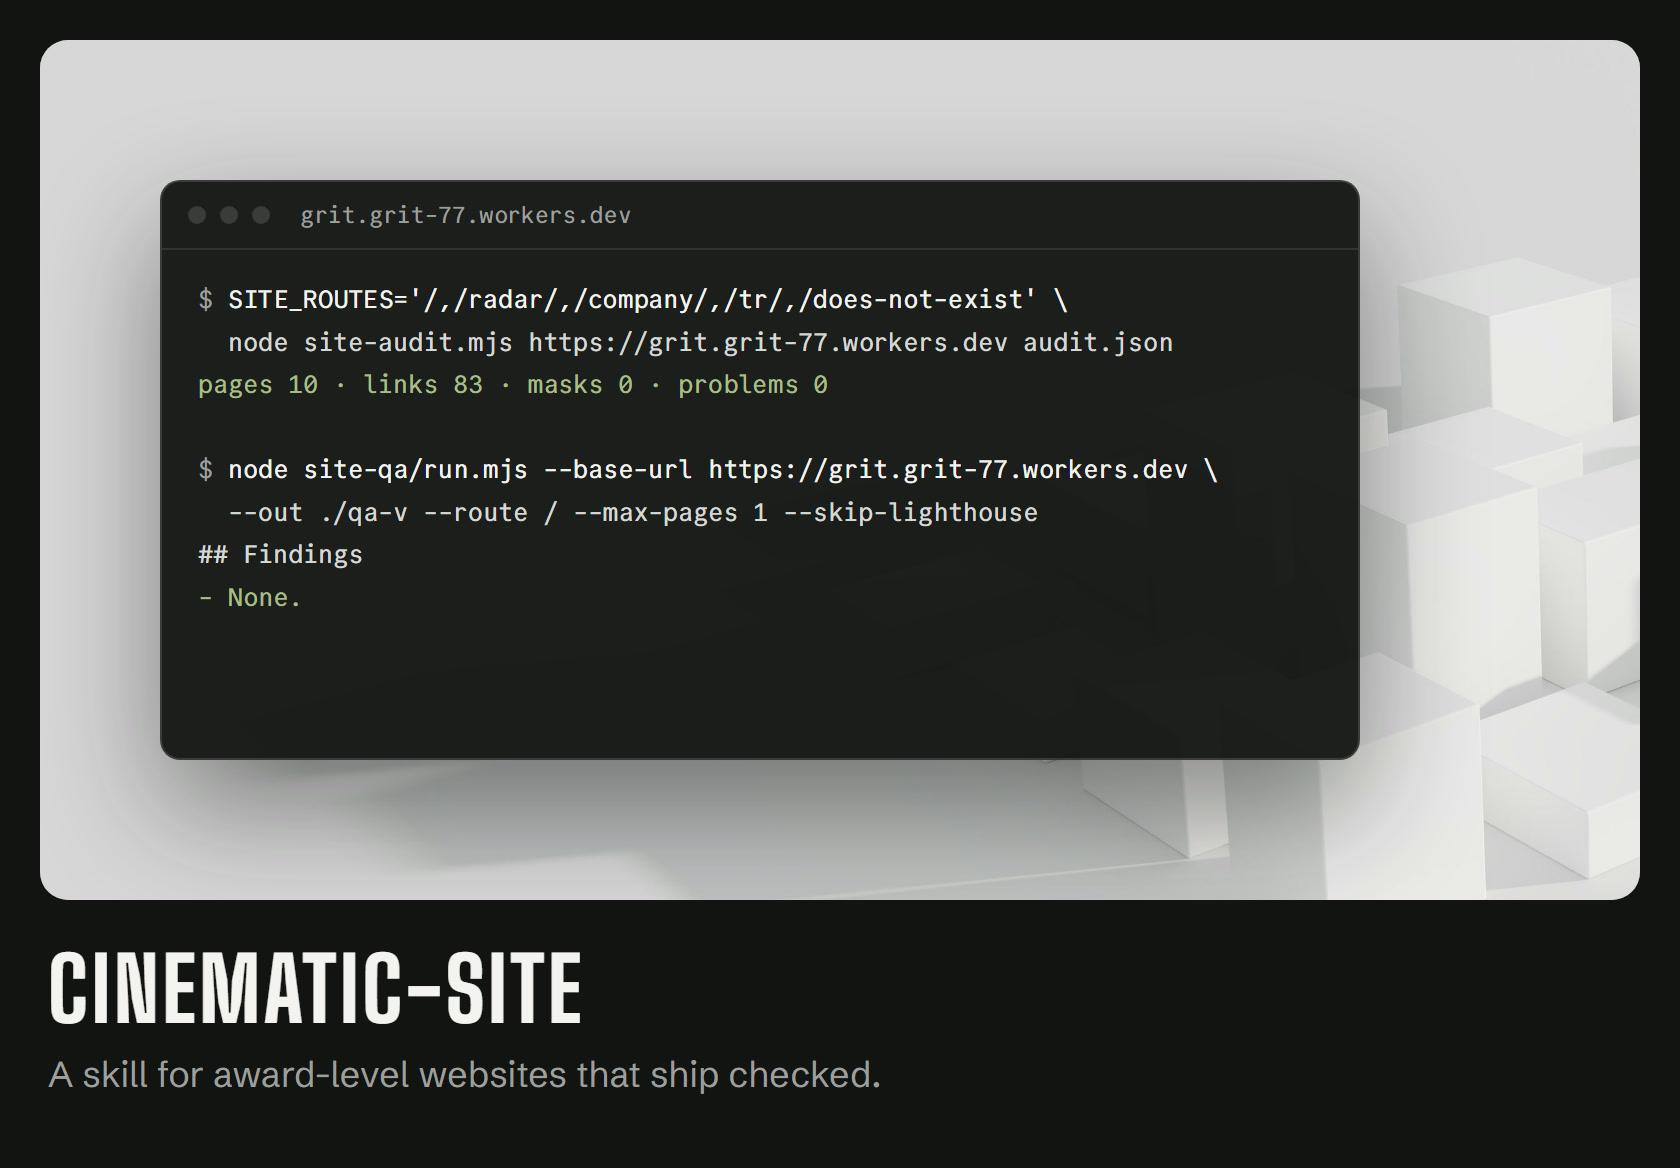
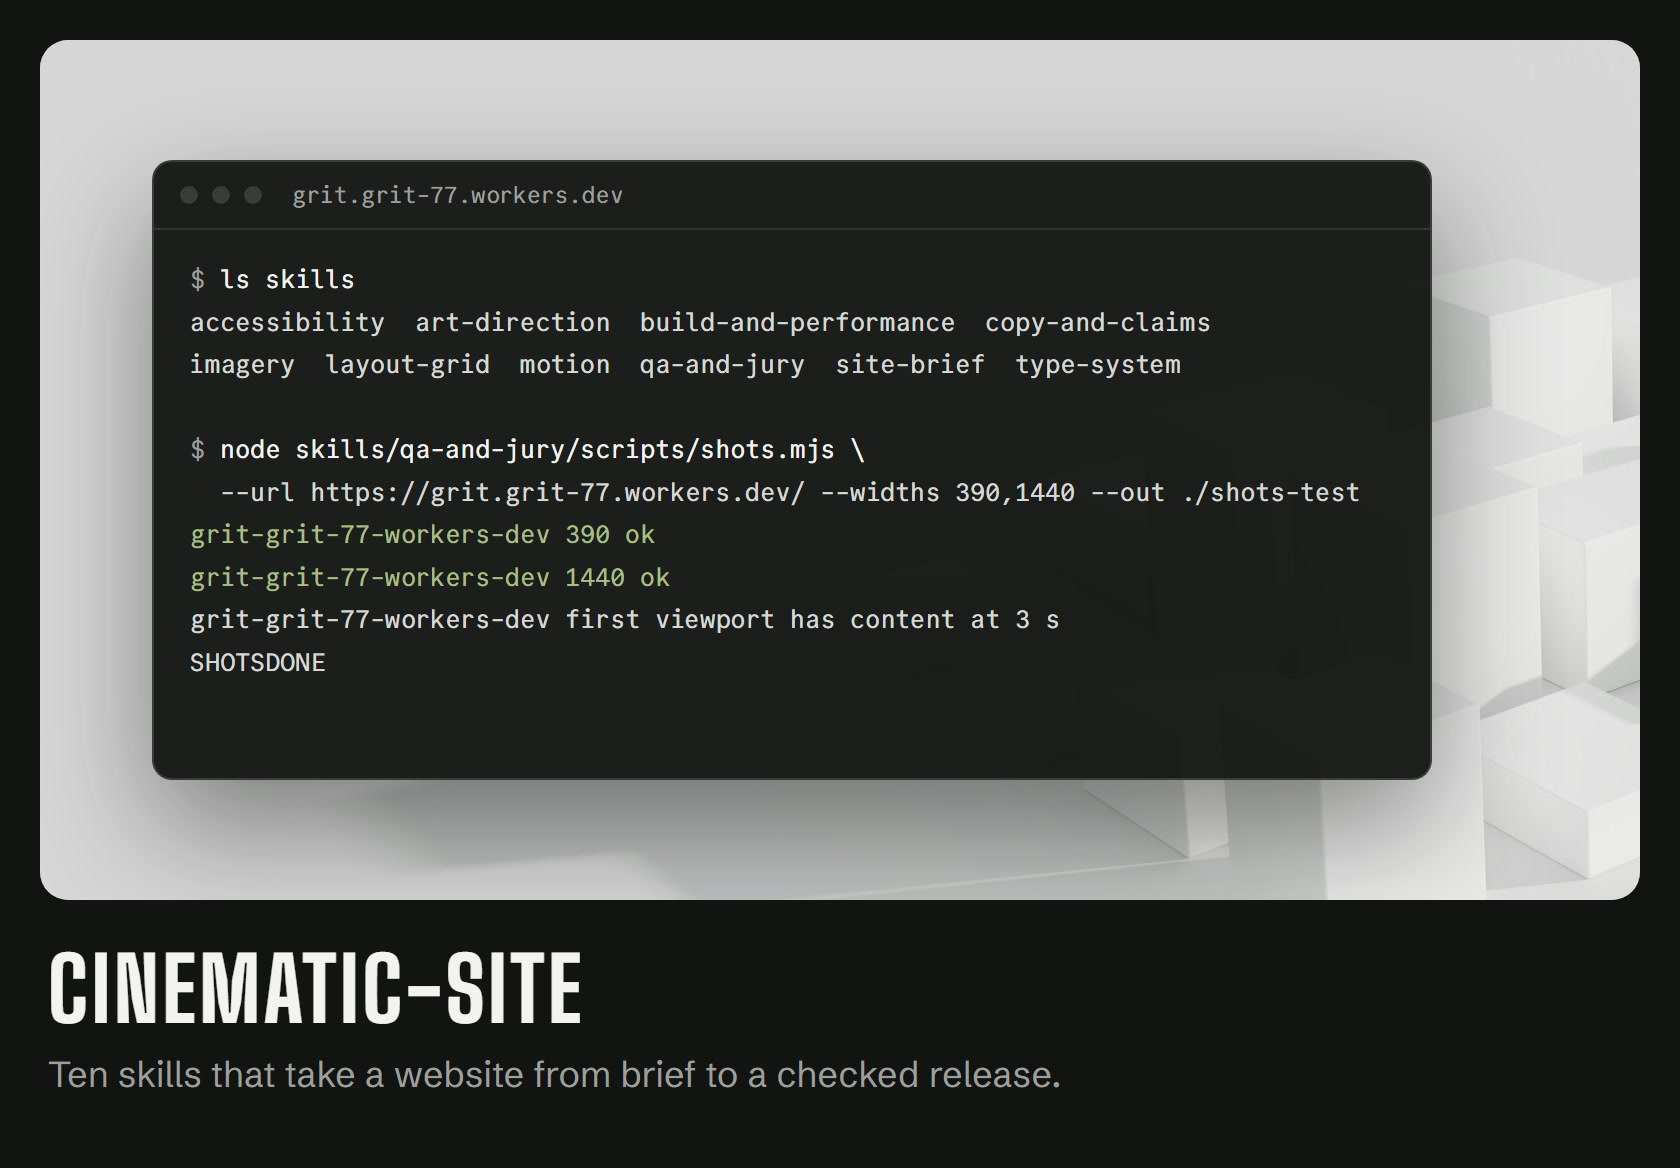
cinematic-site v2 card

Changed region(s): [[0.0929, 0.1233, 0.8976, 0.7397], [0.031, 0.8938, 0.619, 0.9555]]

diff --git a/README.md b/README.md
@@ -19,8 +19,8 @@ Grit is an AI company in Ankara that checks its own work. Our mark is a labyrint
       <p><a href="https://github.com/Grit-77/done-is-a-claim"><b>done-is-a-claim</b></a> · a drop-in AGENTS.md / CLAUDE.md, each rule with the incident behind it, plus three skills.</p>
     </td>
     <td width="50%" valign="top">
-      <a href="https://github.com/Grit-77/cinematic-site"><img src="./assets/brand/cinematic.jpg" width="100%" alt="CINEMATIC-SITE: a terminal with the real layout audit and QA output for grit.grit-77.workers.dev, over white card massing blocks."></a>
-      <p><a href="https://github.com/Grit-77/cinematic-site"><b>cinematic-site</b></a> · a skill with a browser QA pass and a layout audit at phone and desktop width.</p>
+      <a href="https://github.com/Grit-77/cinematic-site"><img src="./assets/brand/cinematic.jpg" width="100%" alt="CINEMATIC-SITE: a terminal listing the ten skills and a real capture run against grit.grit-77.workers.dev, over white card massing blocks."></a>
+      <p><a href="https://github.com/Grit-77/cinematic-site"><b>cinematic-site</b></a> · ten skills that take a website from brief to a checked release, with measured gates.</p>
     </td>
   </tr>
   <tr>
